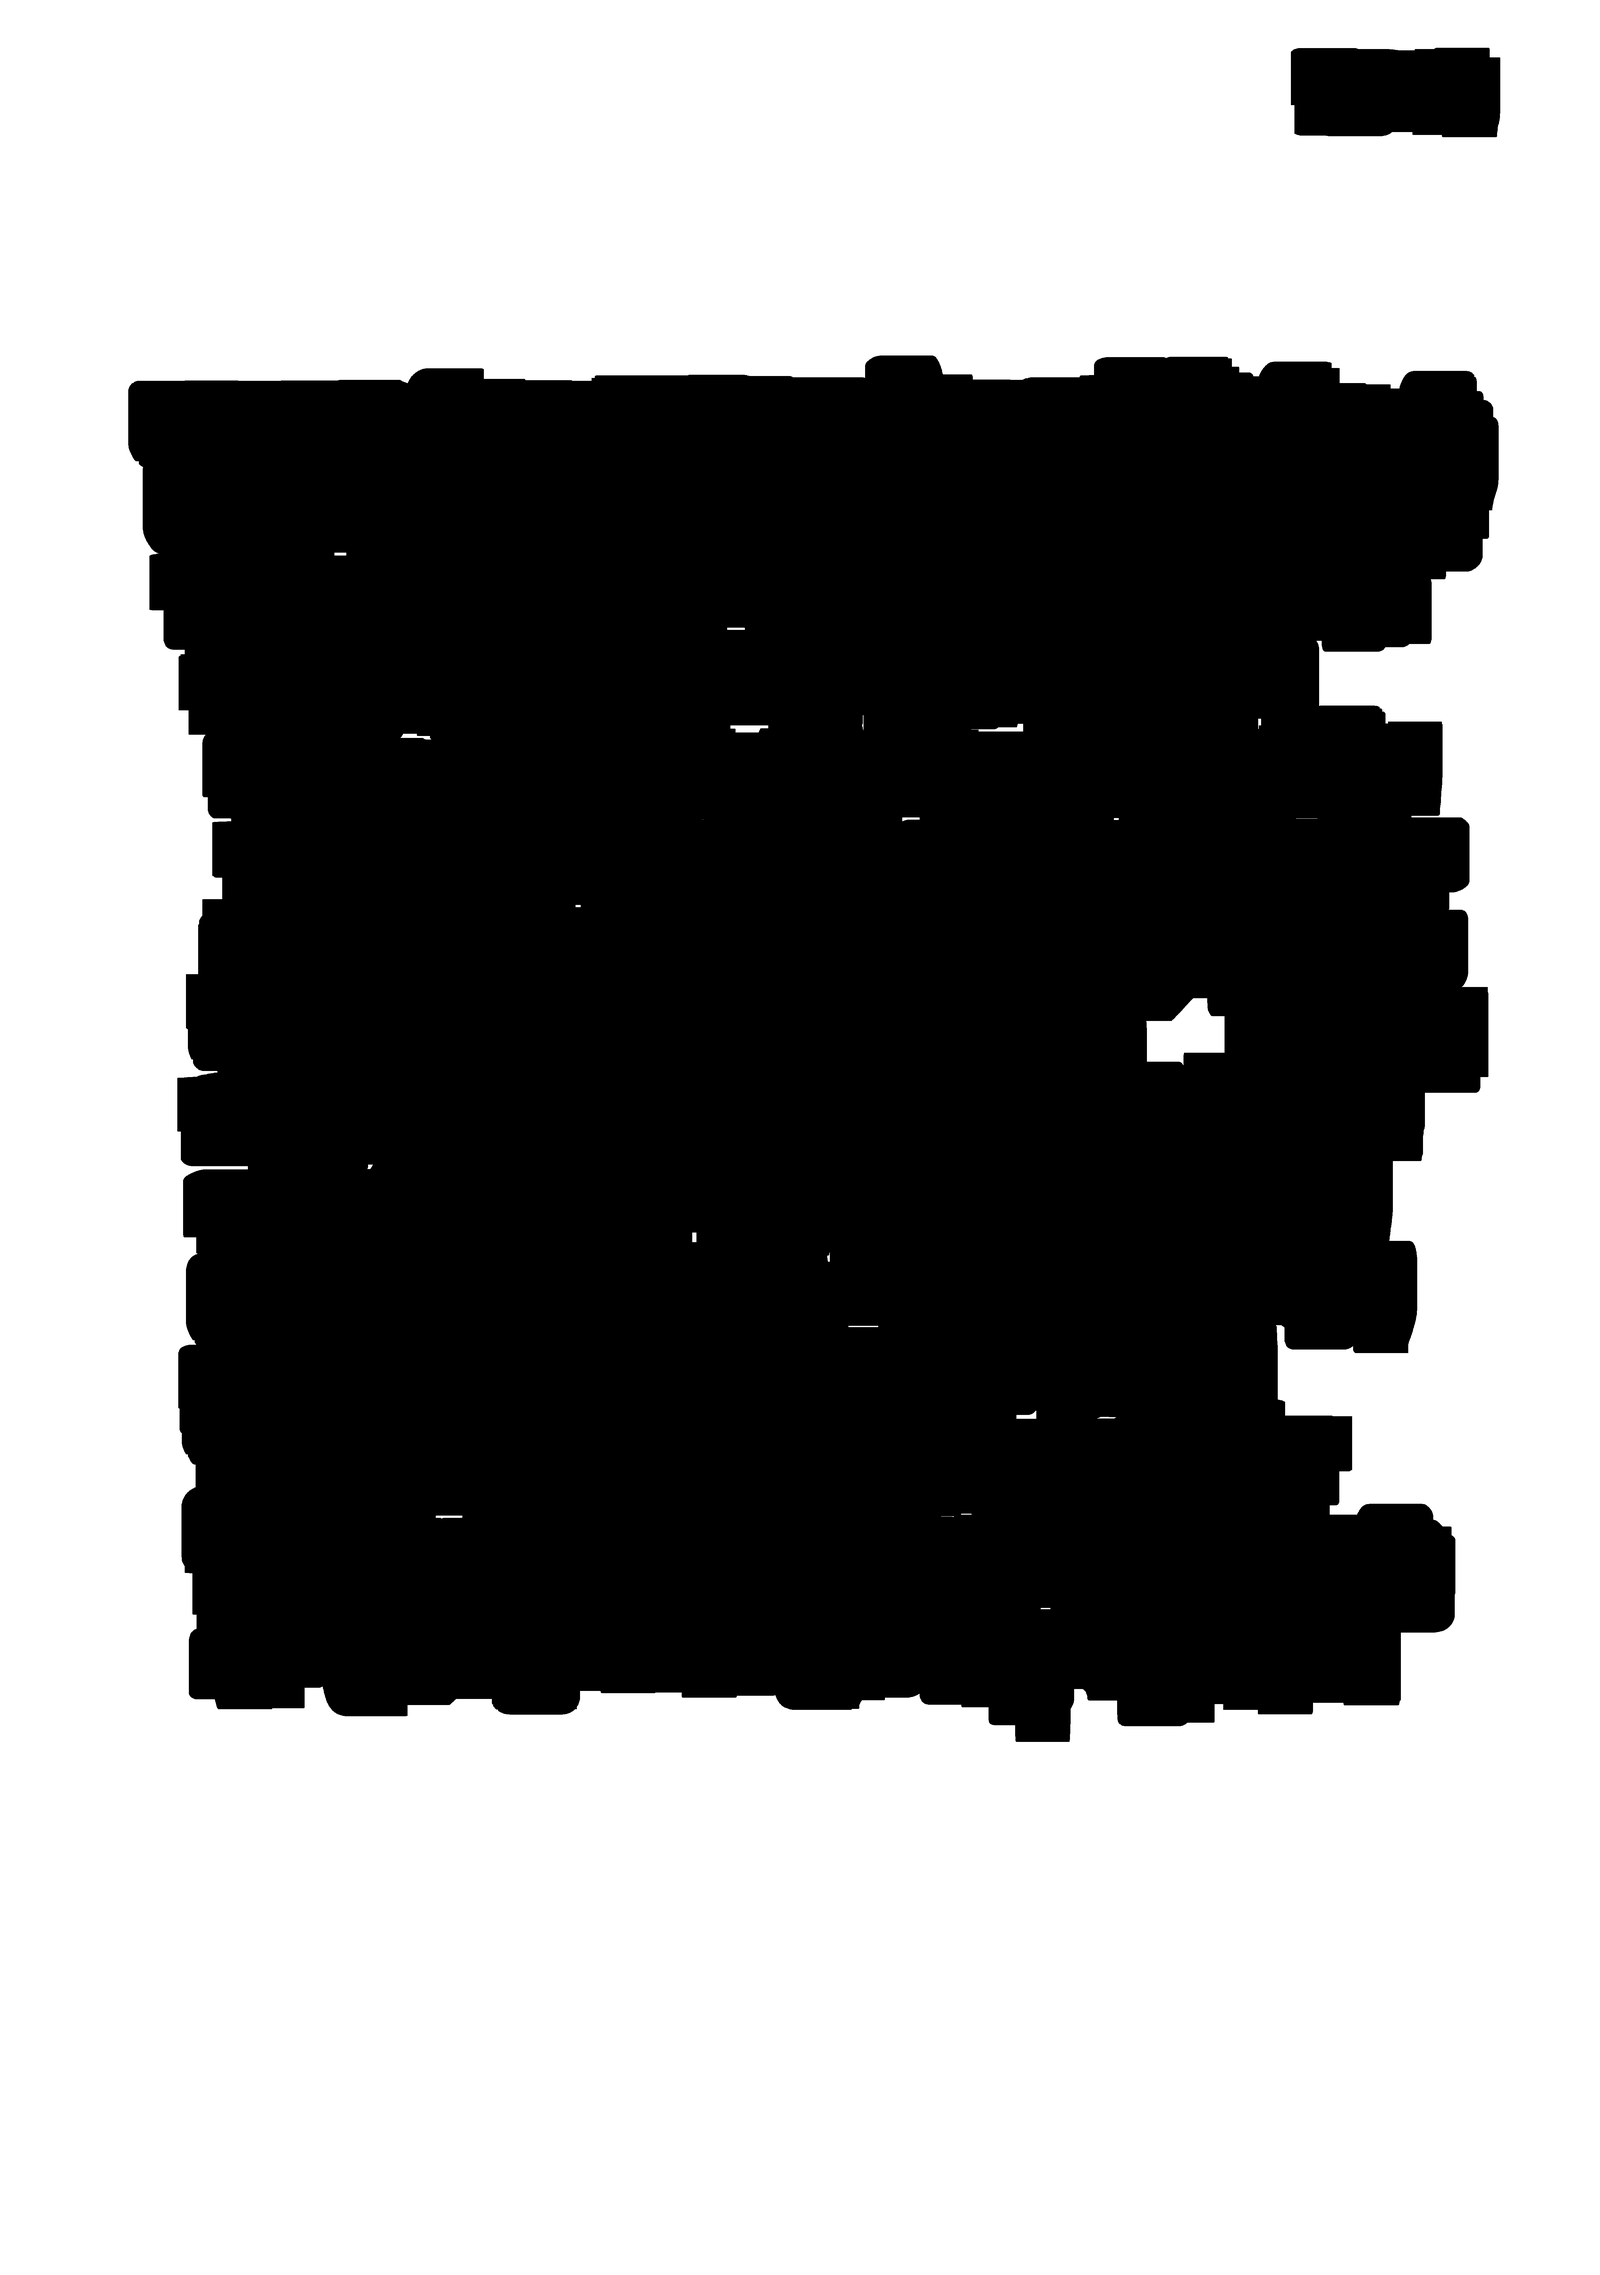
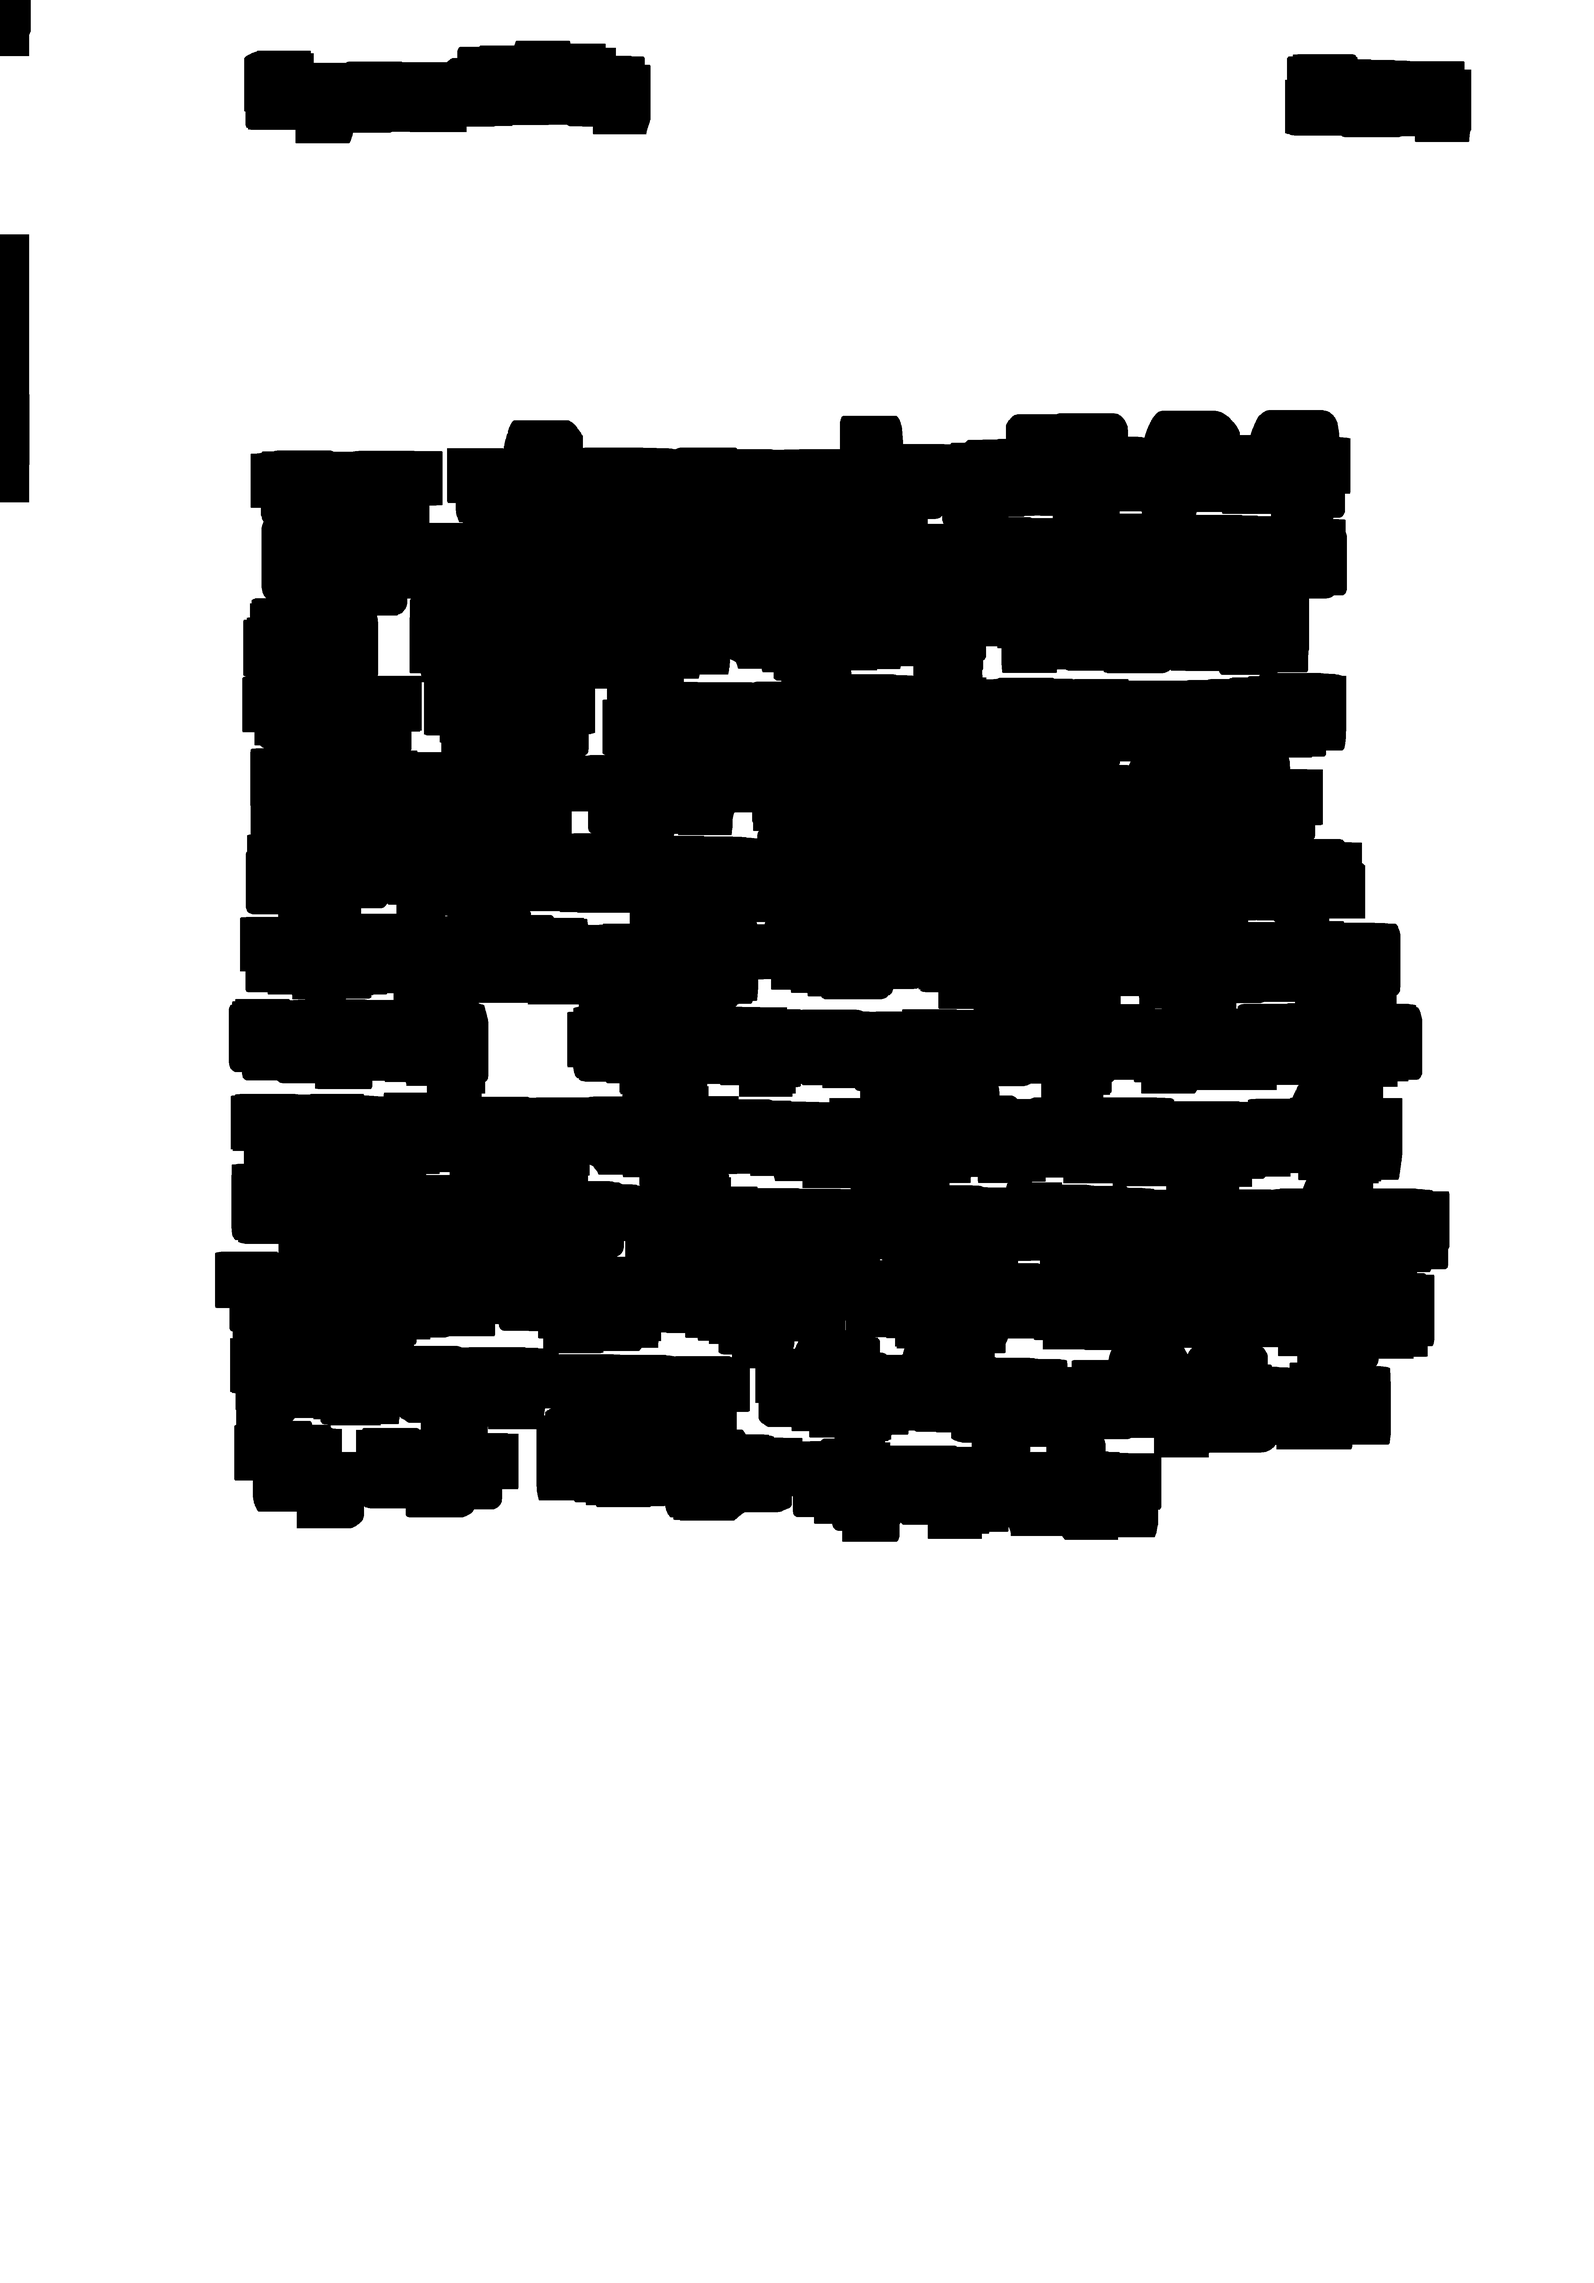
cropping image done, feature extraction baki

diff --git a/check_straight_lines.py b/check_straight_lines.py
@@ -1,0 +1,24 @@
+# aim is to check how many straight lines there are
+import cv2 as cv
+import numpy as np
+
+def display_image(curimg, imgname):
+    resized_image = cv.resize(curimg, (600, 700), interpolation=cv.INTER_AREA)
+    cv.imshow(imgname, resized_image)
+    cv.waitKey(0)
+    cv.destroyAllWindows()
+
+
+cropped_img = cv.imread('cropped.png',0)
+
+mask = np.zeros((5,5), np.uint8)
+mask[:, :] = 255
+mask[1:3, 0:5] = 0
+cv.imwrite("white_mask.jpg",mask) 
+# masked_img = cv.bitwise_and(cropped_img, cropped_img, mask=mask)
+
+display_image(mask, 'mask')
+# display_image(masked_img, 'masked image')
+
+
+

diff --git a/cropping_image.py b/cropping_image.py
@@ -10,7 +10,7 @@ def display_image(curimg, imgname):
     cv.destroyAllWindows()
 
 
-raw_img = cv.imread(r'C:\Users\DARPAN\Documents\College\6th Semester\BSc Project (DSE6)\Data\358_0014.png')
+raw_img = cv.imread(r'C:\Users\DARPAN\Documents\College\6th Semester\BSc Project (DSE6)\Data\305_0014.png')
 
 img_copy = np.array(raw_img)
 img_copy2 = np.array(raw_img)
@@ -45,7 +45,7 @@ for cnt in contours:
     if lw * lh < w * h:
         lx, ly, lw, lh = x, y, w, h
 
-cropped = raw_img[ly:ly+lh, lx:lx+lw]
+cropped = red_mask[ly:ly+lh, lx:lx+lw]
 
 cv.imwrite('cropped.png', cropped)
 
